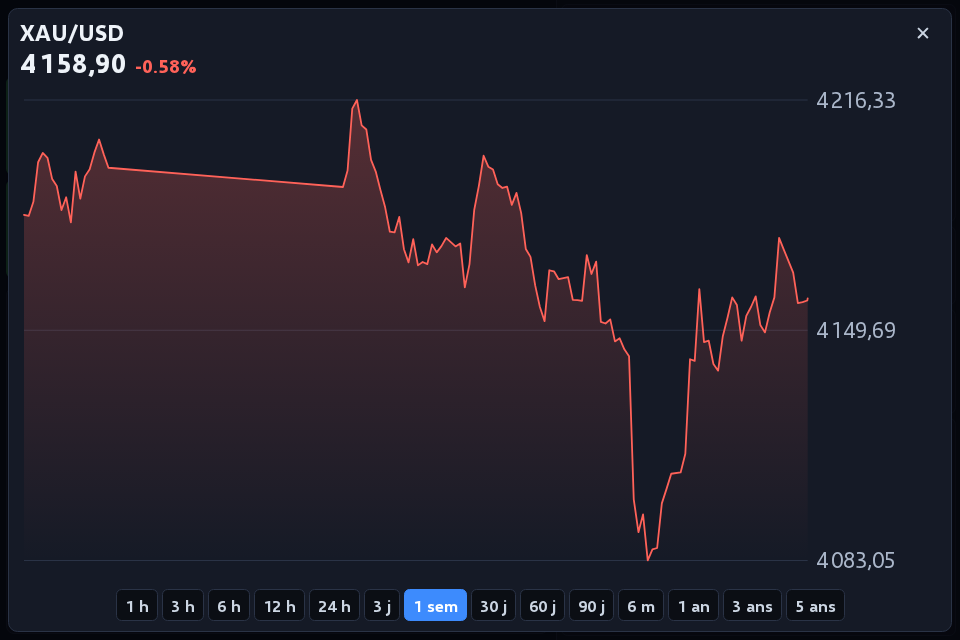
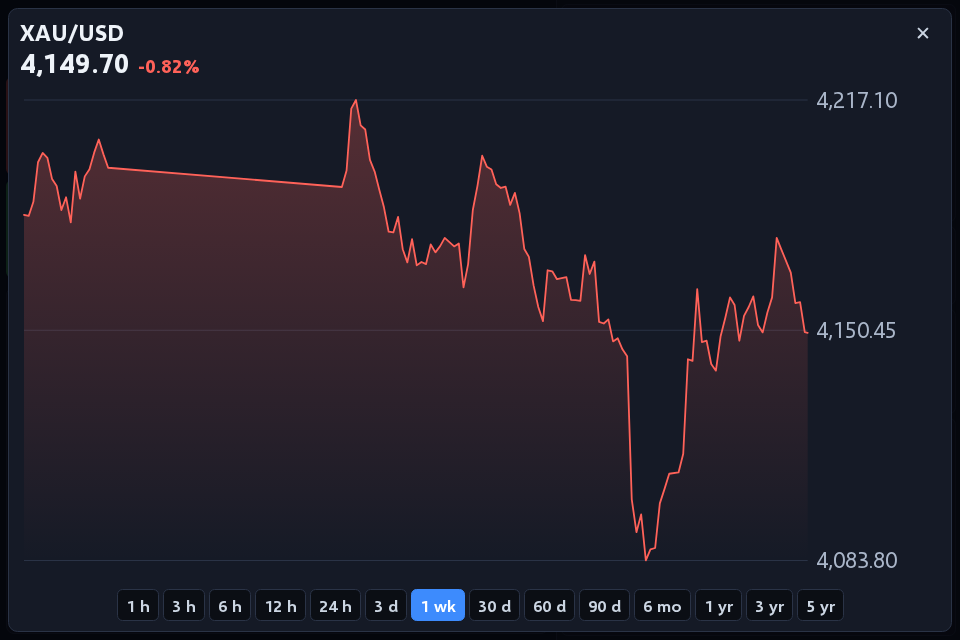
README: bilingual interface, screen shapes, menu inside the window
New screenshots in English, bar and portrait layouts, French light theme.

diff --git a/README.md b/README.md
@@ -17,12 +17,11 @@
 
 Klakboard is a frameless desktop app that lives in the notification area and
 covers the secondary screen of your choice, above the taskbar. It was designed
-for a 3.6-inch 960 × 640 panel (about 325 PPI) and works on any display your
-system sees as a monitor; resolution and zoom are adjustable.
+for a 3.6-inch 960 × 640 panel (about 325 PPI) and adapts to bar and portrait
+screens; resolution and zoom are adjustable.
 
-> **Status** — Windows 10/11. The interface is in French for now: English is
-> next, then layouts for bar and portrait screens, then macOS and Linux (see
-> [Roadmap](#roadmap)).
+> **Status** — Windows 10/11, interface in English and French. macOS and Linux
+> are next (see [Roadmap](#roadmap)).
 
 ## Features
 
@@ -48,8 +47,9 @@ temperature, feels-like, min/max, rain, wind and gusts, thunderstorm risk
 - NVIDIA GPU: load, VRAM, fan, temperature
 - Network: live rates, 90-second history, resettable totals
 
-**Comfort** — 7 muted themes, zoom from 100 to 175 %, night mode (dims the
-screen from sunset to sunrise at the weather city), start with Windows.
+**Comfort** — English and French (following the system, or picked in the
+settings), 7 muted themes, zoom from 100 to 175 %, night mode (dims the screen
+from sunset to sunrise at the weather city), start with Windows.
 
 **Screens** — the screen chosen in the settings is remembered. If it is missing
 (not detected yet at login, unplugged), the window waits hidden instead of
@@ -63,9 +63,24 @@ covering your main screen, and comes back with it.
 ### Which screens?
 
 Any screen connected as a display (HDMI, DisplayPort, USB-C or DisplayLink):
-small 3.5 to 8-inch panels, a spare monitor, a tablet used as a second screen.
-The layout is tuned for landscape screens close to 3:2 or 4:3 (960 × 640,
-1024 × 600, 800 × 480…).
+small 3.5 to 8-inch panels, bar screens, a spare monitor, a tablet used as a
+second screen. The layout follows the shape of the screen:
+
+- **landscape** panels close to 3:2 or 4:3 (960 × 640, 1024 × 600, 800 × 480…);
+- **bar** screens, 2.4:1 and wider (1920 × 480, 1920 × 440, 2560 × 720, 1280 × 400…);
+- **portrait** screens, 4:5 and narrower (480 × 800, 600 × 1024, 480 × 1920…).
+
+<p align="center">
+  <img src="docs/screenshots/bar-1920x480.png" width="720" alt="Bar layout on a 1920 × 480 screen: badges, weather and system side by side">
+</p>
+<p align="center">
+  <img src="docs/screenshots/portrait-600x1024.png" width="240" alt="Portrait layout on a 600 × 1024 screen">
+  <img src="docs/screenshots/dashboard-light-fr.png" width="360" alt="Light theme, in French">
+</p>
+
+On first launch Klakboard covers such a secondary screen by itself (960 × 640
+first, then the smallest small panel or bar screen); ordinary monitors are only
+used when picked in *Full screen on…*.
 
 Small "sensor panel" screens sold with their own software and driven over a
 USB serial link are not displays for the system: Klakboard cannot use them.
@@ -85,8 +100,10 @@ gh attestation verify Klakboard.Setup.<version>.exe -R LokLakh-s/Klakboard
 
 ## Usage
 
-Everything goes through the notification area icon: click to show or hide,
-right-click for the menu (add a row, settings, refresh, updates, quit).
+Click the notification area icon to show or hide the dashboard. The menu (add
+a row, settings, refresh, updates, quit) opens with a right click on that icon,
+a right click anywhere in the dashboard (long press on a touch screen), or the
+⋮ button that appears when hovering the top bar.
 
 | | |
 |---|---|
@@ -167,7 +184,8 @@ updates.js    finds and downloads releases
 updater.js    swaps the app archive after exit (runs outside the app)
 preload.js    IPC bridge (context isolation on)
 renderer.js   rendering: badges, charts, settings
-style.css     themes and type scale
+i18n.js       interface strings (English, French), shared by main and page
+style.css     themes, type scale, landscape / bar / portrait layouts
 test/         node:test suites; main.js runs against a fake electron module
 ```
 
@@ -178,11 +196,10 @@ truncated file; an unreadable file is set aside, never overwritten.
 
 ## Roadmap
 
-1. English interface (with French kept), settings reachable from the window.
-2. Layouts for bar screens (1920 × 480, 2560 × 720) and portrait screens; GPU
-   load for AMD and Intel on Windows.
-3. macOS and Linux builds.
-4. Larger screens: more details, and detailed CPU (per core), GPU and network
+1. ~~Public release~~ (1.6.0), ~~English and French, menu inside the window,
+   bar and portrait layouts~~ (1.7.0).
+2. macOS and Linux builds, GPU load for AMD and Intel.
+3. Larger screens: more details, and detailed CPU (per core), GPU and network
    charts on click.
 
 The full review behind this plan, in French: [docs/AUDIT-2026-10-16.md](docs/AUDIT-2026-10-16.md).

diff --git a/docs/AUDIT-2026-10-16.md b/docs/AUDIT-2026-10-16.md
@@ -12,6 +12,14 @@ en adresse `noreply`, ville choisie au premier lancement, README en anglais, dé
 publiques, CI de tests à chaque push et PR, release avec notes, `SHA256SUMS` et attestation de
 provenance, Dependabot. Restent : B5, B6, B10 et les étapes 2 à 4.
 
+**Suivi (16/10/2026, étape 2)** — faits : interface anglais + français (`i18n.js`, langue du
+système ou choisie, nombres, dates et unités dans la langue), menu de l'appli dans la fenêtre
+(clic droit, appui long, bouton ⋮), modes *barre* et *portrait* avec reconnaissance automatique
+de ces écrans, commentaires, logs et noms de tests en anglais (B10), unités cohérentes (B5 : RAM
+et VRAM en gigaoctets binaires, réseau en décimal). Le GPU AMD/Intel passe à l'étape 3 : il demande
+une machine Windows sans NVIDIA pour être vérifié, et s'écrit avec les mesures propres à chaque
+système. Reste B6 (purge sans confirmation).
+
 ## 1. Verdict
 
 **Oui, Klakboard est un bon candidat au public, mais pas en l'état pour la promotion annoncée.**
